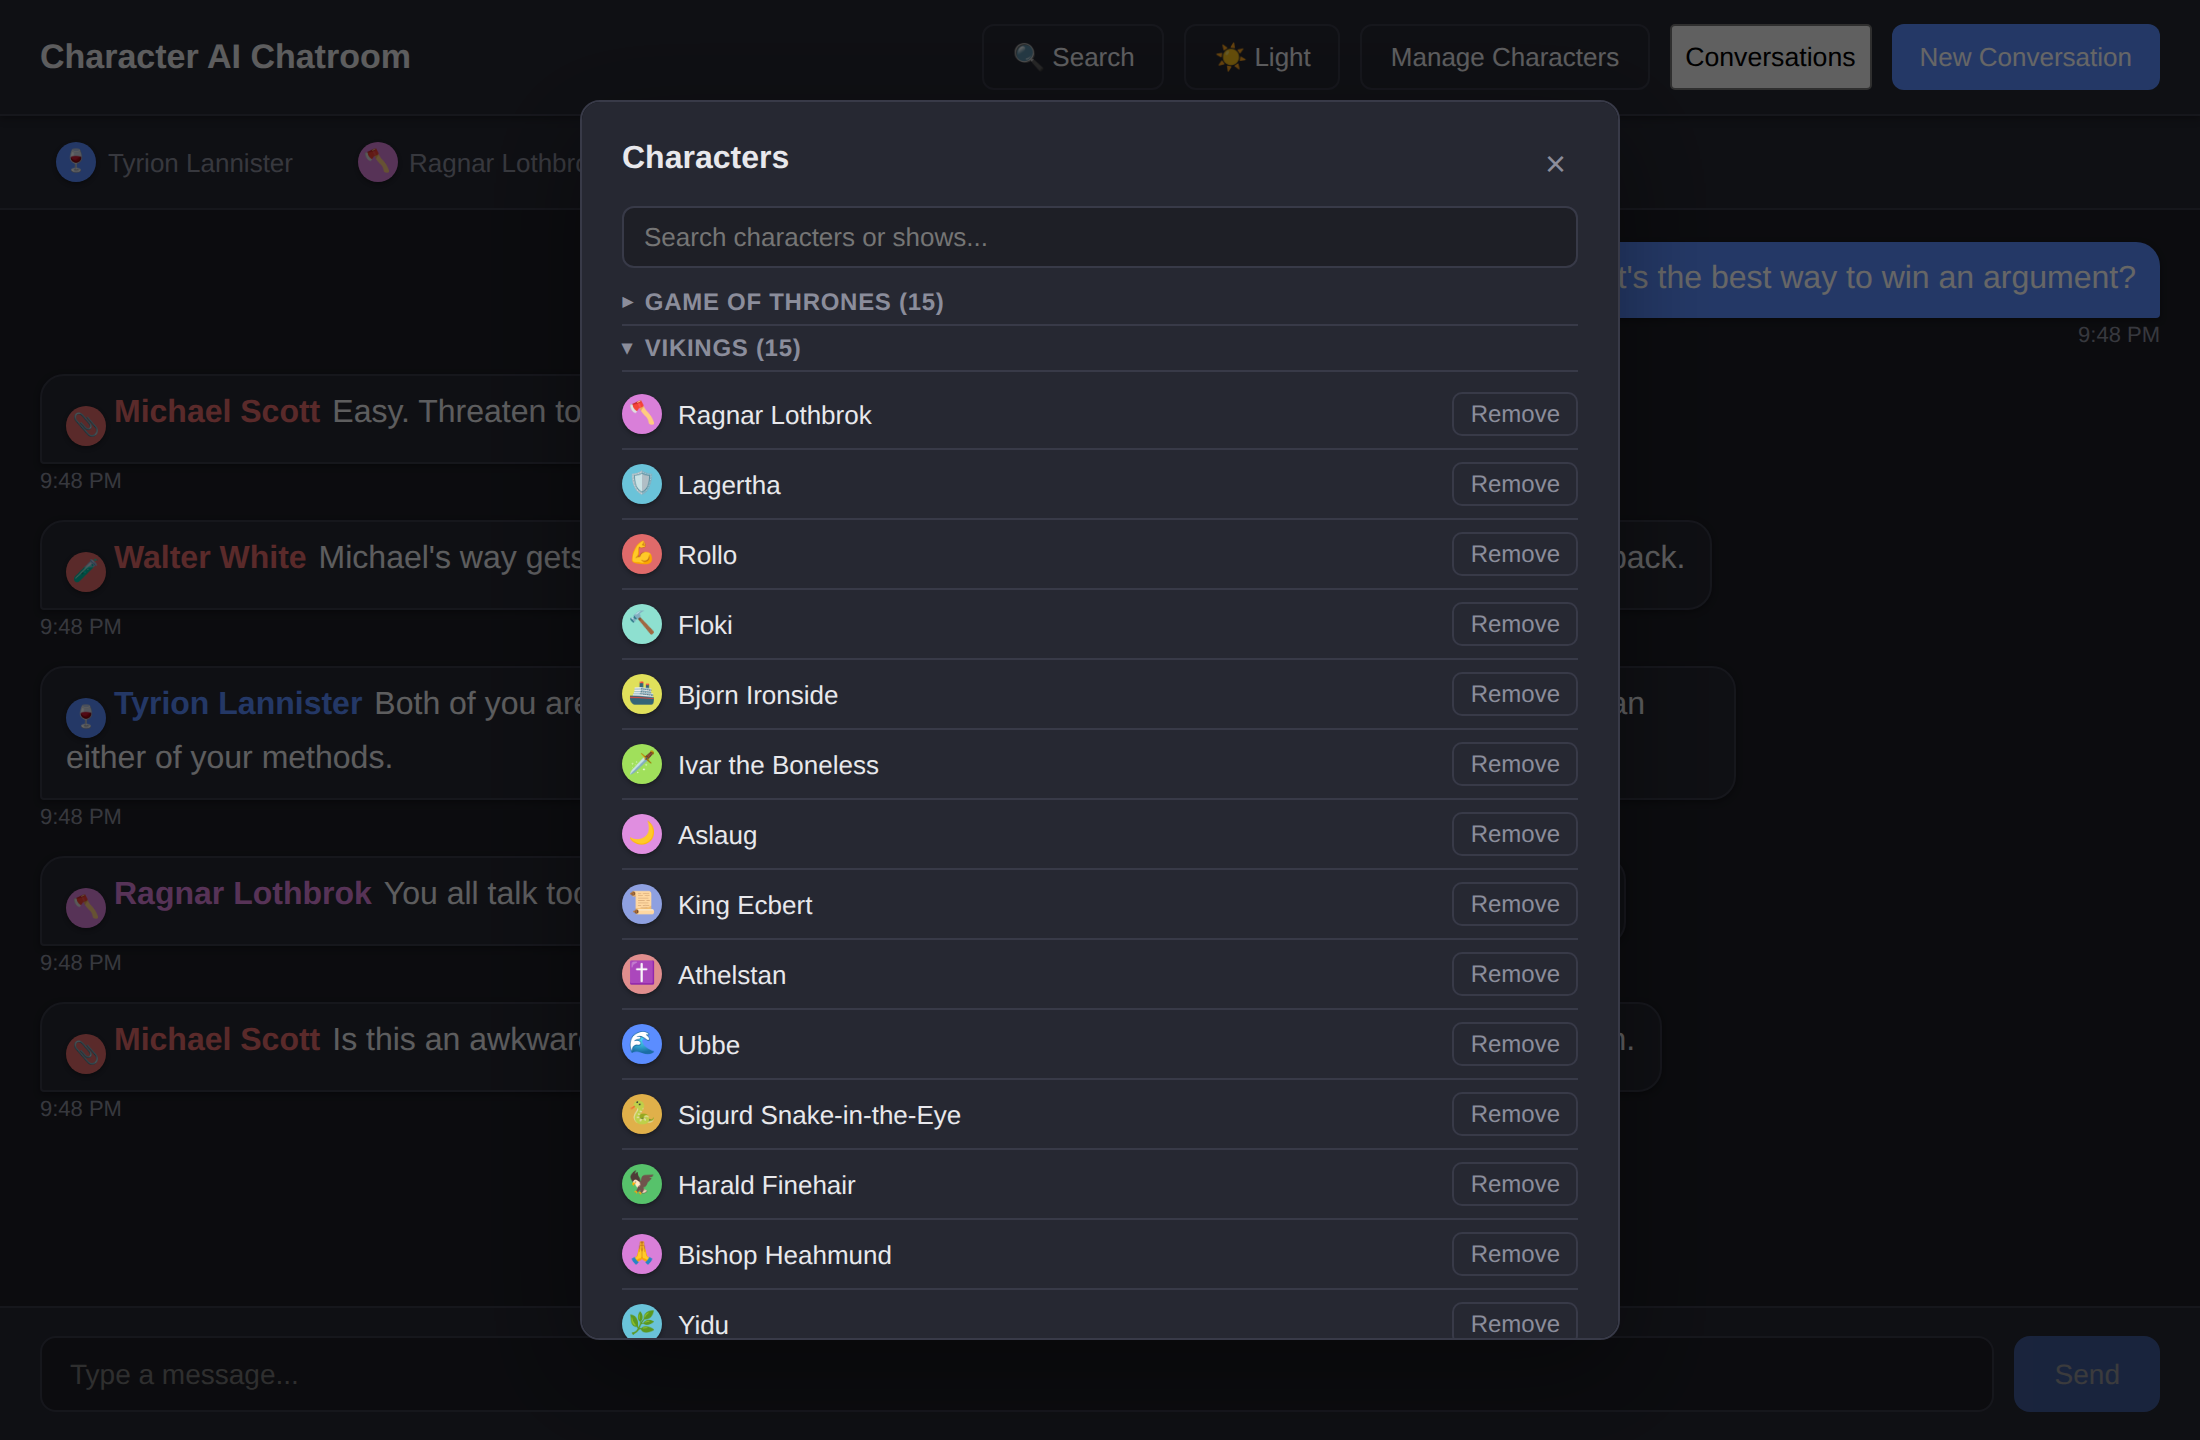
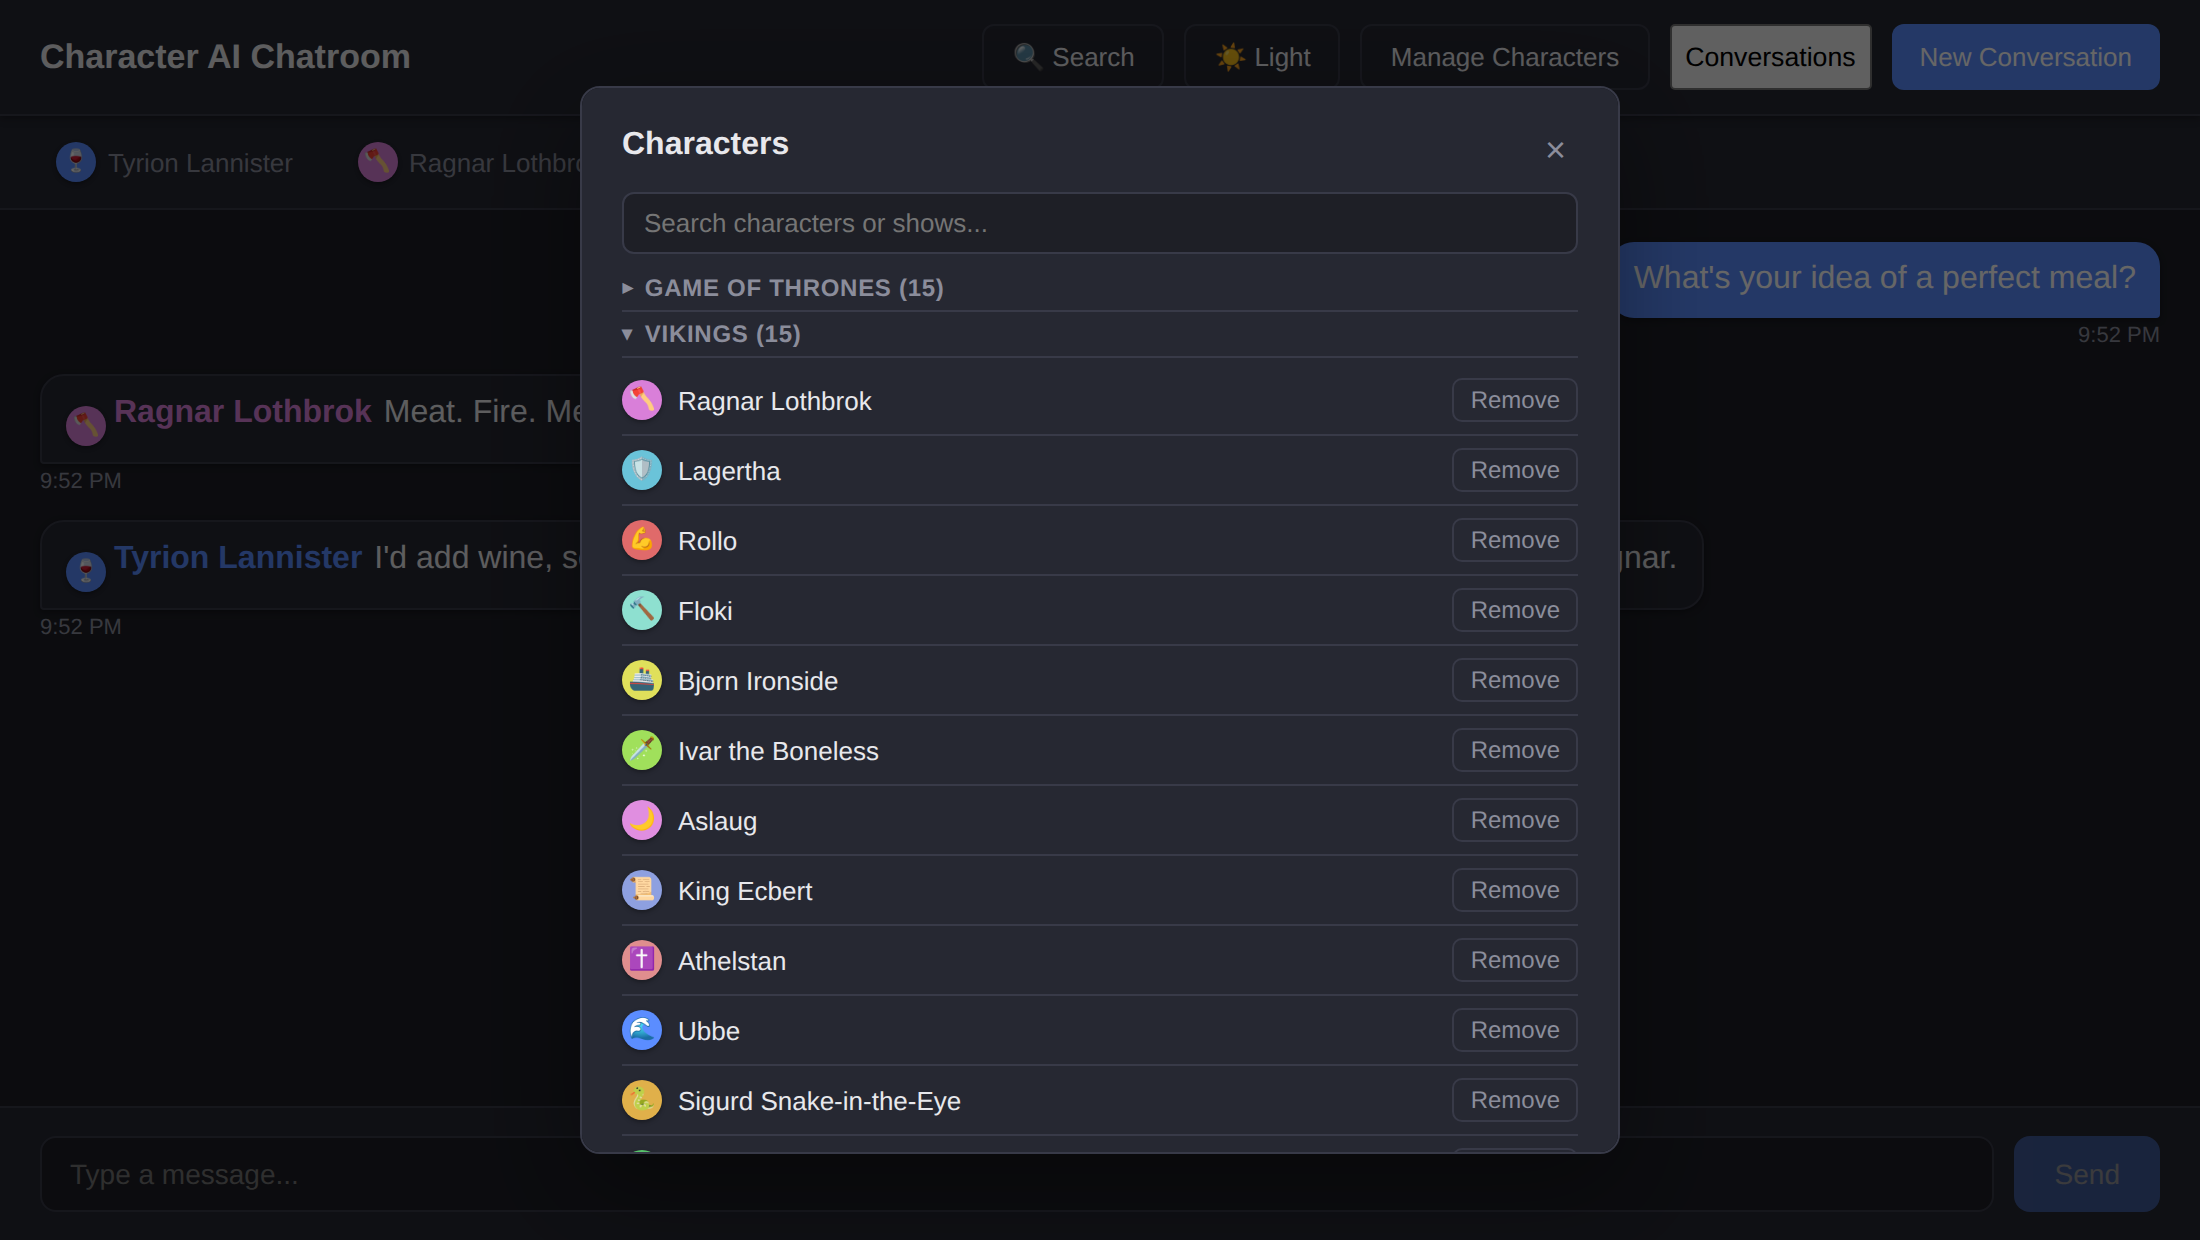
Fix nonsensical idle-chatter screenshot; show natural, partial-participation banter instead
The idle-chatter screenshot had Michael Scott saying "is this an
awkward silence?" while every message in the thread carried the exact
same timestamp - since the mock generated all replies instantly with
no simulated delay, there was no actual silence for the line to be
reacting to, which read as a bug rather than a feature demo. Dropping
it entirely rather than trying to fake a time gap.

Replaces the single "all four characters answer the user" screenshot
with two separate conversations that use the app's real chain
mechanism (decide_speakers called again with the previous reply as
latest_message) instead of a forced round where every character always
speaks:

- screenshots/chat.png - "I think I need a vacation." Michael, Walter,
  and Tyrion reply to each other by name ("That's not a vacation,
  Michael," "Try to keep up, Walter") while Ragnar - also in the
  conversation's roster - doesn't speak at all this time.
- screenshots/chat2.png (new) - "What's your idea of a perfect meal?"
  A different pair, Ragnar and Tyrion, talk this time while Michael and
  Walter stay quiet.

Together they show what the caption for chat.png couldn't on its own:
not everyone in a conversation responds to everything, and it's not
always the same subset - which is how the real router actually
behaves, unlike the earlier screenshot's forced 4-for-4 round.

Regenerated search.png and light_theme.png against the "vacation"
conversation for consistency, and manage_characters.png unchanged in
[…]

diff --git a/README.md b/README.md
@@ -6,19 +6,19 @@ Game of Thrones, Vikings, The Walking Dead, La Casa de Papel (Money Heist),
 Squid Game, Breaking Bad, Prison Break, Friends, The Simpsons, The Office,
 and Stranger Things.
 
-![Michael Scott, Walter White, Tyrion Lannister, and Ragnar Lothbrok arguing with each other about the best way to win an argument, each responding directly to the previous speaker](screenshots/chat.png)
+![Michael Scott, Walter White, and Tyrion Lannister replying to each other about needing a vacation, while Ragnar Lothbrok stays quiet](screenshots/chat.png)
 
-*Four characters from four different shows, replying to each other, not just to you - Michael's HR-manager instinct, Walter's cold pragmatism, Tyrion calling out "both of you," and Ragnar dismissing the whole conversation, all in one exchange.*
+*Michael, Walter, and Tyrion riff off each other directly - "That's not a vacation, Michael," "Try to keep up, Walter" - while Ragnar, also in the room, doesn't chime in this time.*
 
-![The same conversation with Michael Scott spontaneously breaking the silence after nobody said anything for a while](screenshots/idle_chatter.png)
+![Ragnar Lothbrok and Tyrion Lannister talking about the perfect meal, while Michael Scott and Walter White stay quiet](screenshots/chat2.png)
 
-*Leave a conversation open and idle for a while, and a character may occasionally speak up unprompted - no new message from you needed.*
+*A different conversation, a different pair talking - not everyone in the room responds to everything, and it's not always the same ones.*
 
 ![The New Conversation picker, showing all eleven shows as collapsible sections with Breaking Bad expanded](screenshots/character_picker.png)
 
 ![The Manage Characters modal with Vikings expanded, showing Remove buttons next to each character](screenshots/manage_characters.png)
 
-![Searching the conversation for "argument" - four matching messages outlined, with a match counter and next/previous navigation](screenshots/search.png)
+![Searching the conversation for "vacation" - three matching messages outlined, with a match counter and next/previous navigation](screenshots/search.png)
 
 ![The same conversation in light theme](screenshots/light_theme.png)
 
